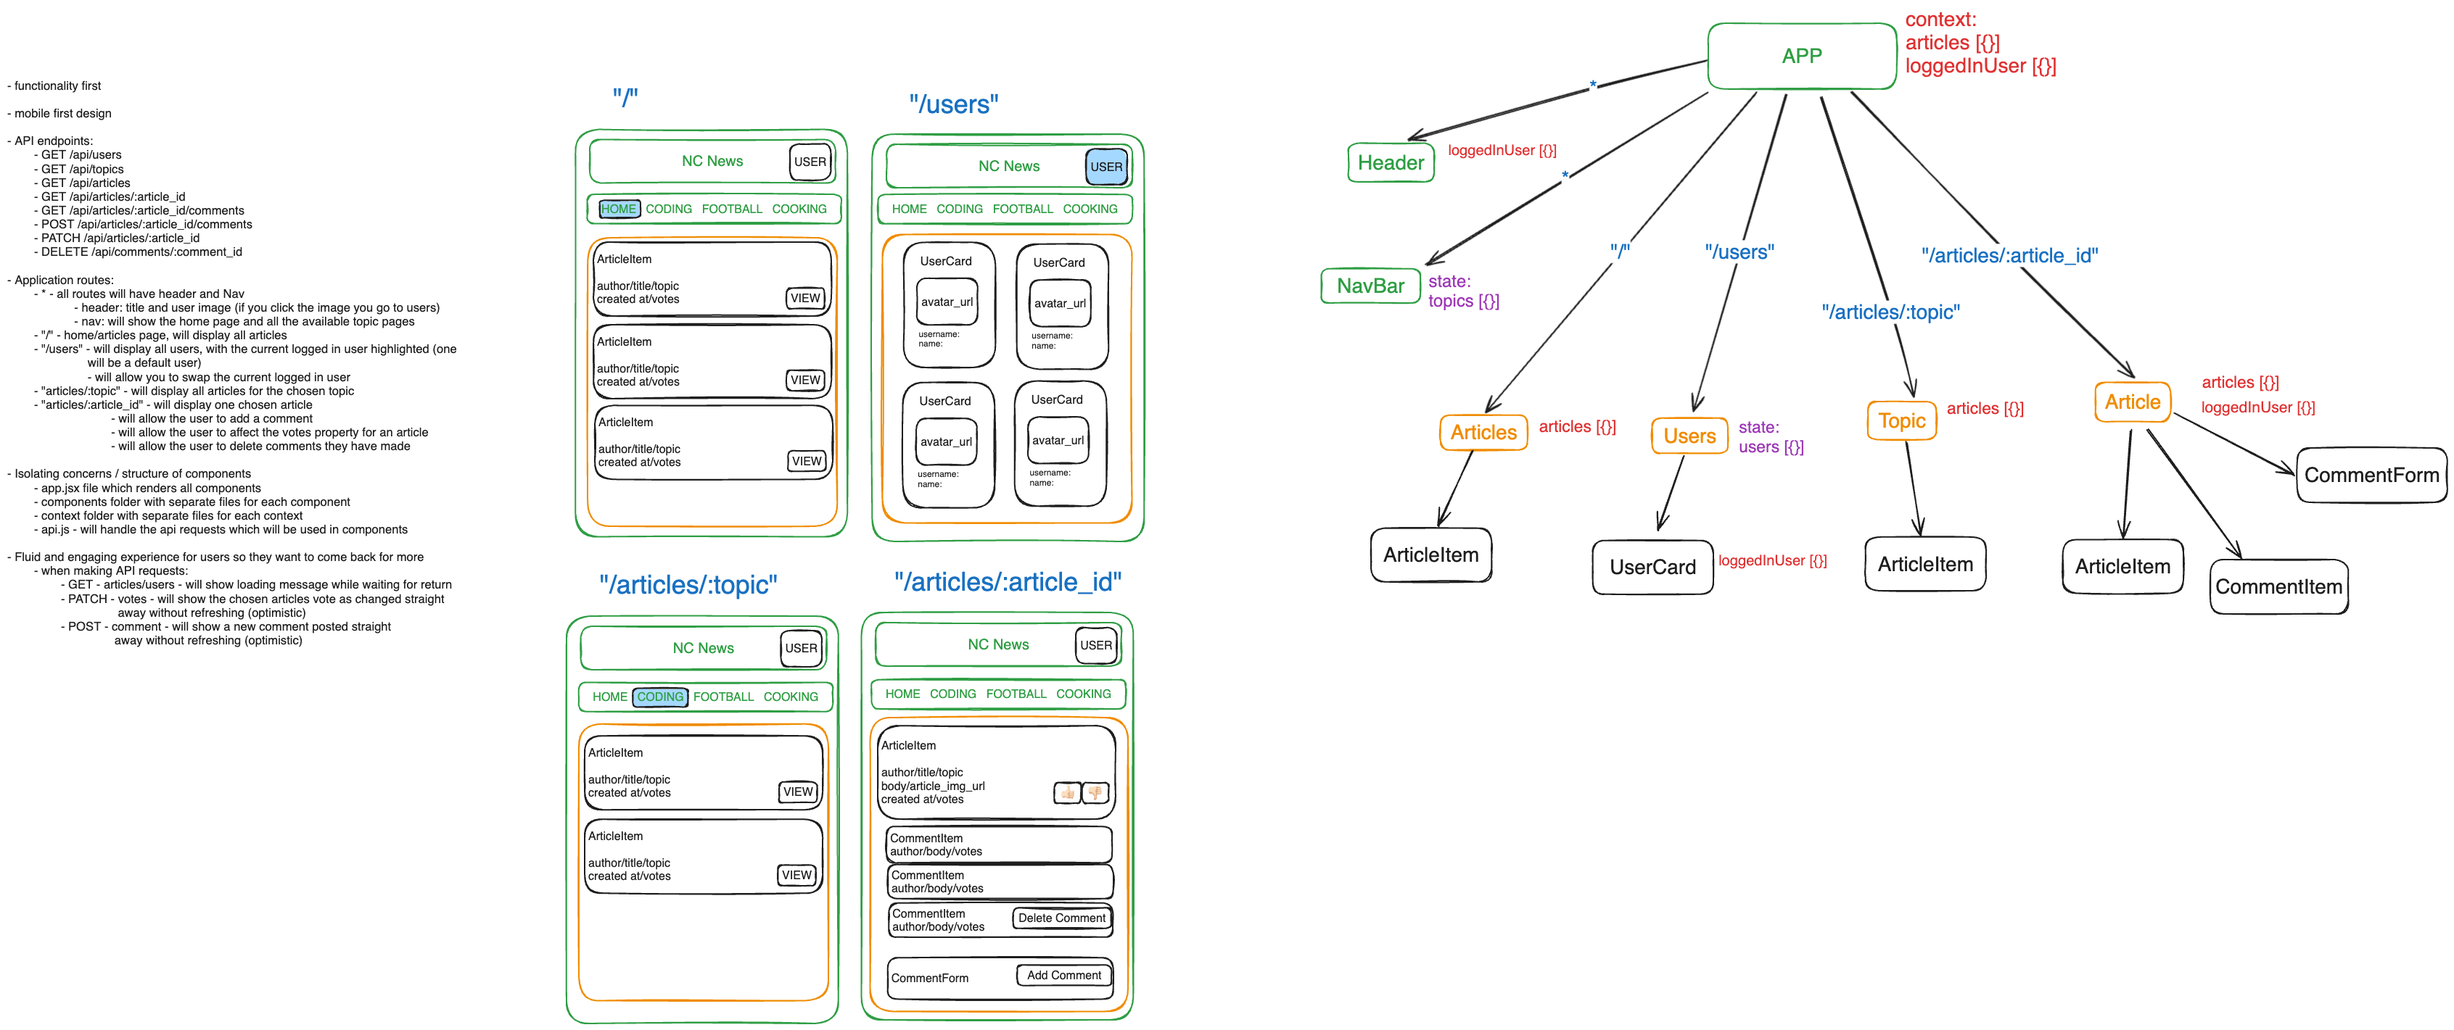
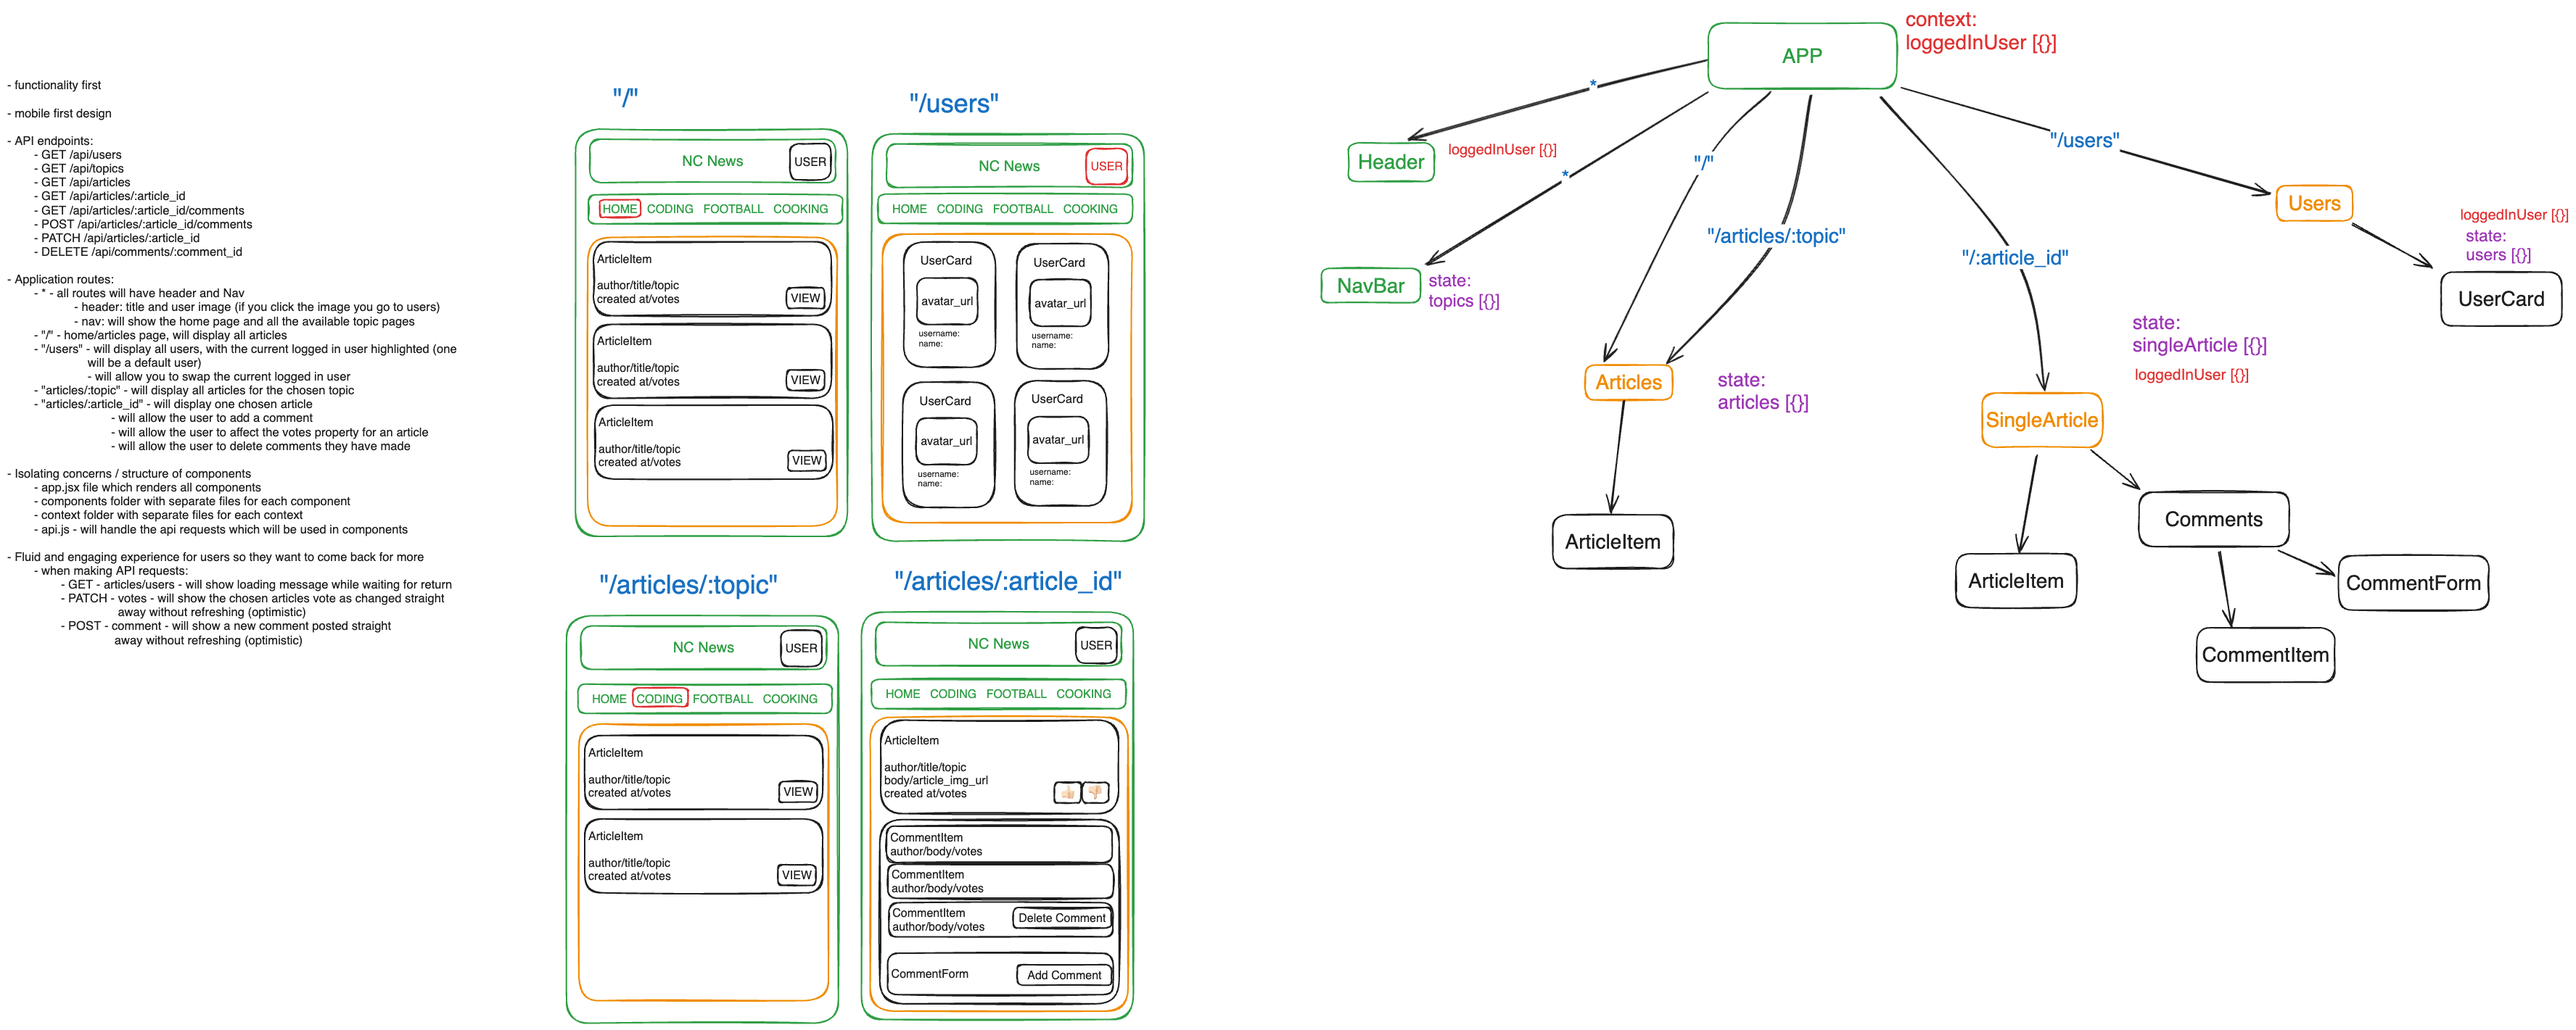
adds singleArticle component to view an article by ID and adds Nav with Home link

diff --git a/src/components/Articles.jsx b/src/components/Articles.jsx
@@ -1,12 +1,13 @@
 import { useEffect, useState } from "react"
 import { getArticles } from "../api"
+import ArticleItem from "./ArticleItem"
+
 
 const Articles = () => {
     const [articles, setArticles] = useState([])
     const [isLoading, setIsLoading] = useState(true)
     
     useEffect(() => {
-        console.log("useEffect triggered")
         getArticles().then((articlesFromAPI) => {
             setArticles(articlesFromAPI.data.articles)
             setIsLoading(false)
@@ -19,17 +20,7 @@ const Articles = () => {
     return (<>
         <ul className="article-list">
             {articles.map((article) => {
-                const created = new Date(article.created_at)
-                const formattedDate = `${created.getDate()}.${created.getMonth()}.${created.getFullYear()}`
-                const time = created.toTimeString()
-                const formattedTime = time.slice(0, 5)
-                return <li key={article.article_id} className="article">
-                    <img className="article-img" src={article.article_img_url} alt={article.title}/>
-                    <h3>{article.title}</h3>
-                    <p>By: {article.author} | Topic: {article.topic}</p>
-                    <p>{formattedTime} {formattedDate} | Votes: {article.votes}</p> 
-                    <button>Read the full article</button>
-                </li>
+                return <ArticleItem key={article.article_id} article={article}/>
             })}
         </ul>
     </>)

diff --git a/src/App.css b/src/App.css
@@ -17,17 +17,23 @@
   background-color: lightgreen;
 }
 
+ul {
+  padding: 0;
+}
+
+li {
+  list-style-type: none;
+}
+
 .article {
   background-color: lightpink;
   border: 5px solid;
   margin: 5px 10px;
   padding: 5px;
-  width: 380px;
 }
 
-ul {
-  list-style-type: none;
-  padding: 0;
+.article-img {
+  width: 380px;
 }
 
 .article-list {
@@ -36,6 +42,38 @@ ul {
   justify-content: space-evenly;
 }
 
-.article-img {
+.article-list > .article {
   width: 380px;
+}
+
+
+@media only screen and (min-width: 600px){ 
+  .single-article > .article {
+    display: grid;
+    grid-template-columns: 380px 1fr;
+    grid-template-rows: min-content 50px min-content 50px;
+  }
+  .single-article > .article > .article-title {
+    grid-column: 1/3;
+    grid-row: 1/2;
+  }
+  .single-article > .article > .article-info {
+    grid-column: 1/2;
+    grid-row: 2/3;
+    margin: 0;
+  }
+  .single-article > .article > .article-img {
+    grid-column: 1/2;
+    grid-row: 3/4;
+  }
+  .single-article > .article > .article-body {
+    grid-column: 2/3;
+    grid-row: 2/5;
+    padding: 0 20px;
+    margin: 0;
+  }
+  .single-article > .article > .article-data {
+    grid-column: 1/2;
+    grid-row: 4/5;
+  }
 }

diff --git a/src/components/ArticleItem.jsx b/src/components/ArticleItem.jsx
@@ -1,0 +1,22 @@
+import { Link } from "react-router-dom"
+
+const ArticleItem = ({article}) => {
+    const pathname = document.location.pathname
+    const created = new Date(article.created_at)
+    const formattedDate = `${created.getDate()}.${created.getMonth()}.${created.getFullYear()}`
+    const time = created.toTimeString()
+    const formattedTime = time.slice(0, 5)
+    return (<li className="article">
+        <img className="article-img" src={article.article_img_url} alt={article.title}/>
+        <h3 className="article-title">{article.title}</h3>
+        <p className="article-info">By: {article.author} | Topic: {article.topic}</p>
+        <p className="article-data">Created: {formattedDate} {`(${formattedTime})`} | Votes: {article.votes}</p> 
+        {pathname === "/" ?
+            <Link to={`/${article.article_id}`}>
+                <button>Read the full article</button>
+            </Link> : 
+            <><p className="article-body">{article.body}</p></>}
+    </li>)
+}
+
+export default ArticleItem

diff --git a/src/components/SingleArticle.jsx b/src/components/SingleArticle.jsx
@@ -1,0 +1,27 @@
+import { useEffect, useState } from "react"
+import ArticleItem from "./ArticleItem"
+import { getArticleById } from "../api"
+import { useParams } from "react-router-dom"
+
+const SingleArticle = () => {
+    const { article_id } = useParams();
+    const [singleArticle, setSingleArticle] = useState([])
+    const [isLoading, setIsLoading] = useState(true)
+
+    useEffect(()=>{
+        getArticleById(article_id).then((articleFromAPI)=>{
+            setSingleArticle(articleFromAPI.data.article)
+            setIsLoading(false)
+        })
+    }, [])
+
+    if(isLoading){
+        return <p className="loading">Loading...</p>
+    }
+    return (<article  className="single-article" >
+        <ArticleItem key={singleArticle.article_id} article={singleArticle}/>
+        
+    </article>)
+}
+
+export default SingleArticle

diff --git a/src/App.jsx b/src/App.jsx
@@ -3,6 +3,7 @@ import './App.css'
 import Header from "../src/components/Header"
 import NavBar from './components/NavBar'
 import Articles from './components/Articles'
+import SingleArticle from './components/SingleArticle'
 
 function App() {
   return (
@@ -11,6 +12,7 @@ function App() {
       <NavBar />
       <Routes>
         <Route path="/" element={<Articles />}></Route>
+        <Route path="/:article_id" element={<SingleArticle />}></Route>
       </Routes>
     </div>
   )

diff --git a/src/components/NavBar.jsx b/src/components/NavBar.jsx
@@ -1,9 +1,9 @@
+import { Link } from "react-router-dom"
+
 const NavBar = () => {
     return (
         <nav className="nav">
-            <ul>
-                <li>Future NavBar Here</li>
-            </ul>
+            <Link to="/">Home</Link>
         </nav>
     )
 }

diff --git a/src/api.js b/src/api.js
@@ -7,3 +7,7 @@ const newsApi = axios.create({
 export const getArticles = () => {
     return newsApi.get('/articles')
 }
+
+export const getArticleById = (article_id) => {
+    return newsApi.get(`/articles/${article_id}`)
+}
